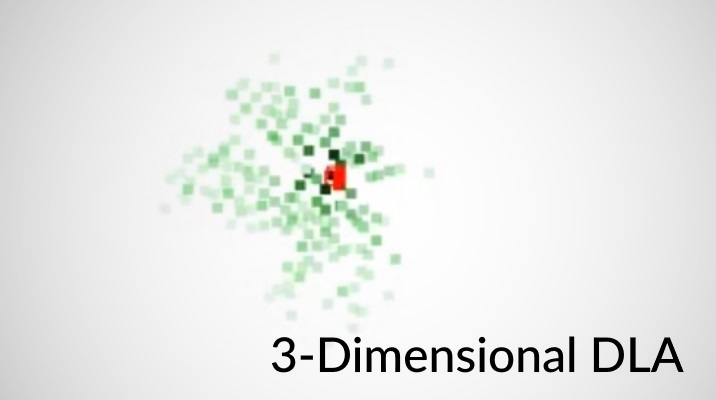
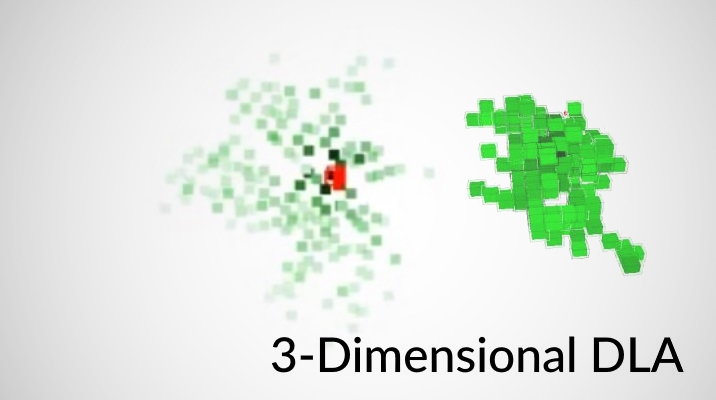
Academic project images
Adde dimages for other academic projects (no links for some)

Changed region(s): [[0.6453, 0.21, 0.9218, 0.69]]

diff --git a/academic.html b/academic.html
@@ -85,6 +85,11 @@
 					<a href="submarine.html"><noscript><img src="img/submarine.jpg" title="Real-time graphics application in D3D11, with PCF shadows, multiple lighting, animation" class="img-fluid"></noscript></a>
 				</div>
 
+				<div class="w-100 d-none d-lg-block"></div>
+
+				<div class="col-lg-3 p-0 col-sm-6">
+					<noscript><img src="img/hull-ai.jpg" title="Artificial Intelligence for games (unavailable)" class="img-fluid"></noscript>
+				</div>
 				<div class="w-100 d-none d-lg-block"><br/><br/></div>
 
 				<!-- Teesside MSc -->
@@ -107,9 +112,15 @@
 				<div class="w-100 d-none d-lg-block"></div>
 
 				<div class="col-lg-3 p-0 col-sm-6">
-					<noscript><img src="img/cagta-lod.jpg" title="Geometric LODs in GLSL" class="img-fluid"></noscript>
+					<a href="https://www.youtube.com/watch?v=v1M_kotoaoA" target="blank"><noscript><img src="img/animation.jpg" title="Computer Animation" class="img-fluid"></noscript></a>
 				</div>
-
+				<div class="col-lg-3 p-0 col-sm-6">
+					<noscript><img src="img/mazegame.jpg" title="maze game with 3D graphics (unavailable)" class="img-fluid"></noscript>
+				</div>
+				<div class="col-lg-3 p-0 col-sm-6">
+					<noscript><img src="img/cagta-lod.jpg" title="Geometric LODs in GLSL (unavailable)" class="img-fluid"></noscript>
+				</div>
+				
 				<div class="col-12 text-center pb-3">
 					<p>Note: Other work is currently unavailable, although more projects do exist</p>
 				</div>
@@ -125,9 +136,15 @@
 
 	
 				<div class="col-lg-3 p-0 col-sm-6">
-					<a href="https://www.youtube.com/watch?v=kb9GaR4IF7k" target="blank"><noscript><img src="img/bacchus.jpg" title="3-Dimensional Diffusion-limited aggregation" class="img-fluid"></noscript></a>
+					<a href="https://www.youtube.com/watch?v=kb9GaR4IF7k" target="blank"><noscript><img src="img/bacchus.jpg" title="Bacchus system (Java PC, MIDP, Palm OS)" class="img-fluid"></noscript></a>
 				</div>
-
+				<div class="col-lg-3 p-0 col-sm-6">
+					<noscript><img src="img/ui.jpg" title="User Interface and Experience (unavailable)" class="img-fluid"></noscript>
+				</div>
+				<div class="col-lg-3 p-0 col-sm-6">
+					<noscript><img src="img/robotics.jpg" title="Basic Robotics (unavailable)" class="img-fluid"></noscript>
+				</div>
+				
 				<div class="col-12 text-center pb-3">
 					<p>Note: Other work is currently unavailable, although more projects do exist</p>
 				</div>
@@ -139,8 +156,12 @@
 					<h4>BSc Interactive Computer Entertainment, BSc Computer Studies, 2000-2002, 2005-2006</h4>
 				</div>
 
+				<div class="col-lg-3 p-0 col-sm-6">
+					<noscript><img src="img/sudoku.jpg" title="Logic-based Sudoku solver (unavailable)" class="img-fluid"></noscript>
+				</div>
+				
 				<div class="col-12 text-center pb-3">
-					<p>Currently, these projects are unavailable to view, I'll keep searching the archives.</p>
+					<p>Currently, aother projects are unavailable to view, I'll keep searching the archives.</p>
 				</div>
 
 			</div>
